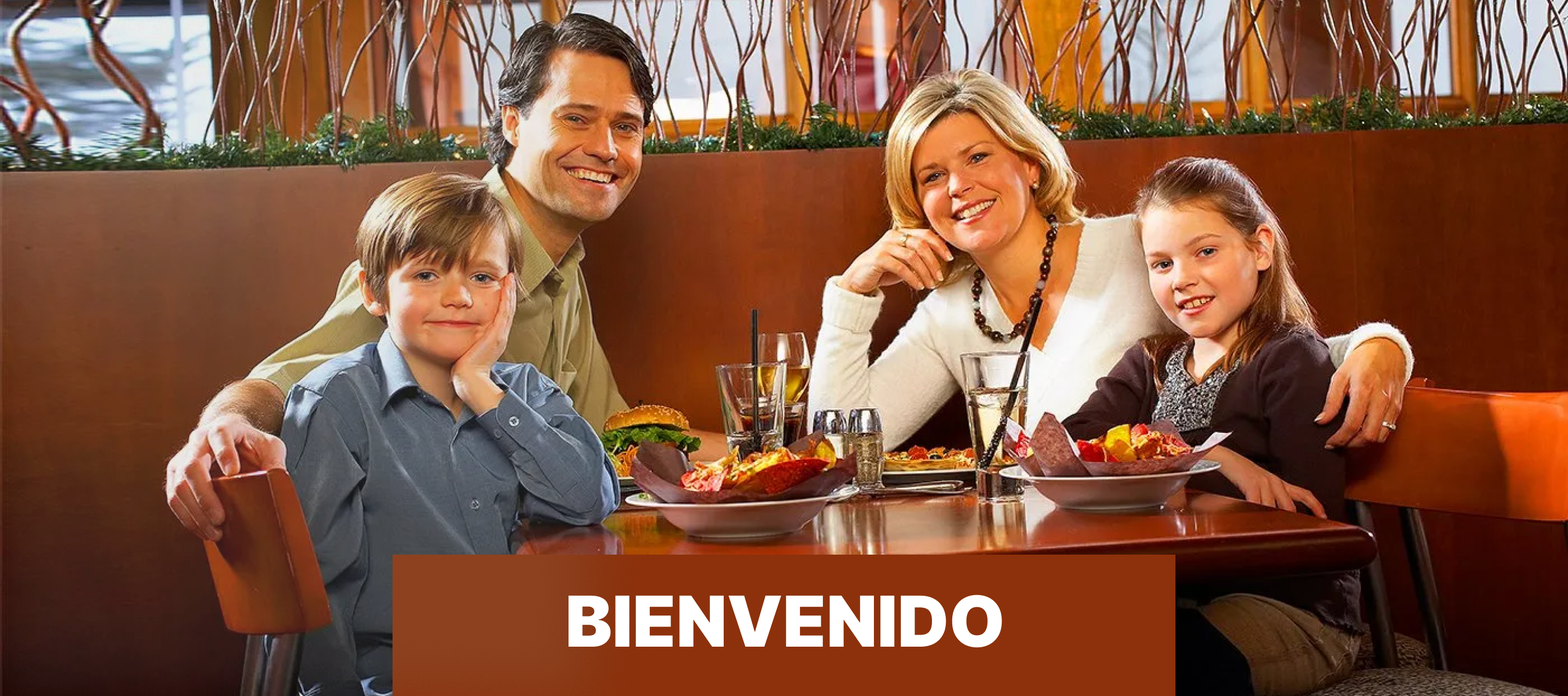
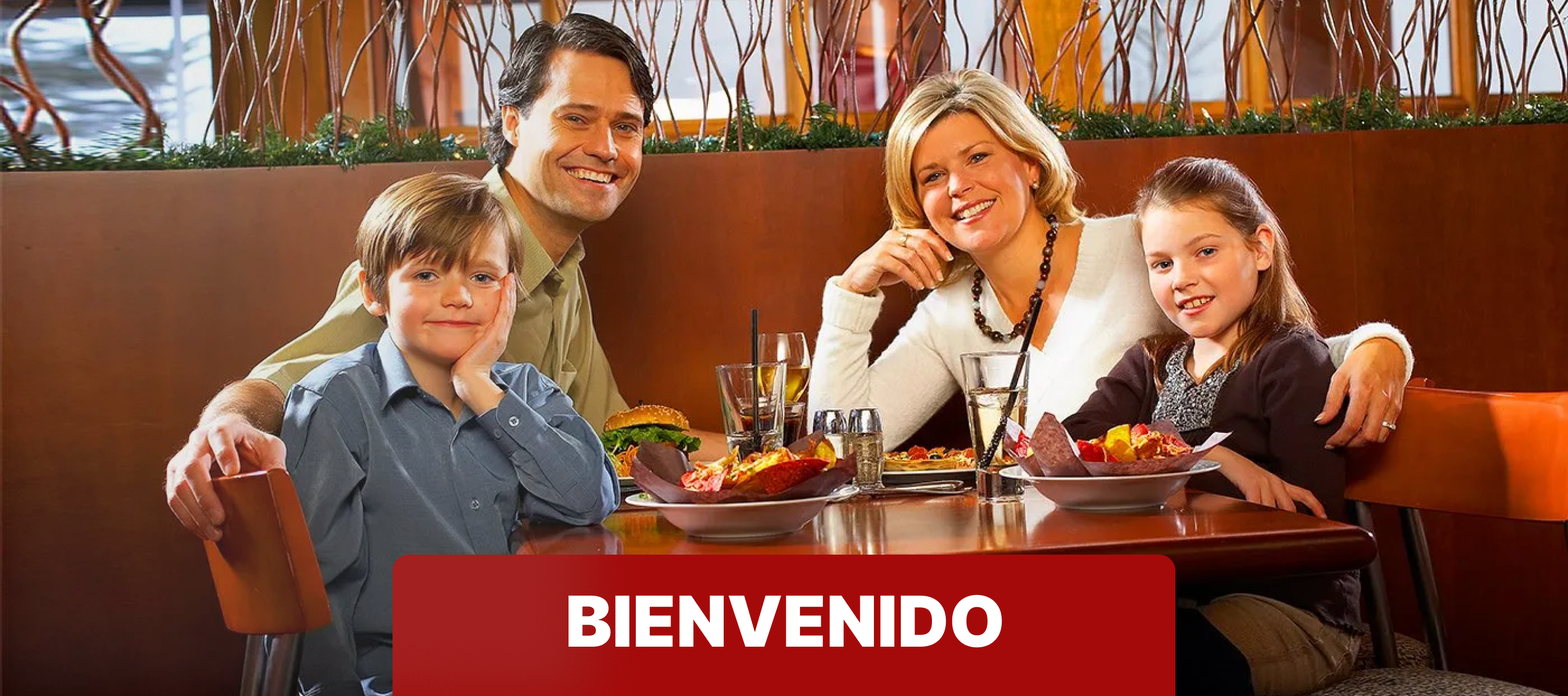
correcciones en la pagina del restaurante

Changed region(s): [[0.249, 0.7984, 0.7469, 1.0]]

diff --git a/cradso/html/restaurante.html b/cradso/html/restaurante.html
@@ -49,6 +49,100 @@
                     <img id="imagen-food" src="imagenes/food.png">
                 </div>
             </div>
+            <div id="seccion-chef">
+                <div id="contenedor-chef">
+                    <img id="imagen-chef" src="imagenes/chef.png">
+                </div>
+                <div id="texto-chef">
+                    <prev id="parrafo-chef">
+                        Donde cada plato cuenta una historia y cada sabor despierta una emoción 
+                    </prev>
+                </div>
+            </div>
+            <div id="seccion-menu">
+                <div id="barra-superior-menu">
+                    <div id="texto-menu"><h1 id="titulo-menu">MENÚ</h1></div>
+                    <div id="buscador">
+                        <form id="formulario" action="" method="GET">
+                            <input type="text" id="barra-busqueda" name="platillo" placeholder="encuentra tu platillo" required>
+                            <input type="submit" id="boton-busqueda" value="BUSCAR">
+                        </form>
+                    </div>
+                </div>
+                <div id="contenedor-menu">
+                    <div id="cuadricula-menu">
+                        <div class="filas-menu">
+                            <div class="carta-platillo">
+                                <div class="contenedor-imagen-platillo">
+                                    <img class="imagen-platillo">
+                                </div>
+                                <h2 class="titulo-platillo">sandwich con tocino</h1>
+                                <h3 class="precio">$ 12,000</h3>
+                            </div>
+                            <div class="carta-platillo">
+                                <div class="contenedor-imagen-platillo">
+                                    <img class="imagen-platillo">
+                                </div>
+                                <h2 class="titulo-platillo">sandwich con tocino</h1>
+                                <h3 class="precio">$ 12,000</h3>
+                            </div>
+                            <div class="carta-platillo">
+                                <div class="contenedor-imagen-platillo">
+                                    <img class="imagen-platillo">
+                                </div>
+                                <h2 class="titulo-platillo">sandwich con tocino</h1>
+                                <h3 class="precio">$ 12,000</h3>
+                            </div>
+                        </div>
+                        <div class="filas-menu">
+                            <div class="carta-platillo">
+                                <div class="contenedor-imagen-platillo">
+                                    <img class="imagen-platillo">
+                                </div>
+                                <h2 class="titulo-platillo">sandwich con tocino</h1>
+                                <h3 class="precio">$ 12,000</h3>
+                            </div>
+                            <div class="carta-platillo">
+                                <div class="contenedor-imagen-platillo">
+                                    <img class="imagen-platillo">
+                                </div>
+                                <h2 class="titulo-platillo">sandwich con tocino</h1>
+                                <h3 class="precio">$ 12,000</h3>
+                            </div>
+                            <div class="carta-platillo">
+                                <div class="contenedor-imagen-platillo">
+                                    <img class="imagen-platillo">
+                                </div>
+                                <h2 class="titulo-platillo">sandwich con tocino</h1>
+                                <h3 class="precio">$ 12,000</h3>
+                            </div>
+                        </div>
+                        <div class="filas-menu">
+                            <div class="carta-platillo">
+                                <div class="contenedor-imagen-platillo">
+                                    <img class="imagen-platillo">
+                                </div>
+                                <h2 class="titulo-platillo">sandwich con tocino</h1>
+                                <h3 class="precio">$ 12,000</h3>
+                            </div>
+                            <div class="carta-platillo">
+                                <div class="contenedor-imagen-platillo">
+                                    <img class="imagen-platillo">
+                                </div>
+                                <h2 class="titulo-platillo">sandwich con tocino</h1>
+                                <h3 class="precio">$ 12,000</h3>
+                            </div>
+                            <div class="carta-platillo">
+                                <div class="contenedor-imagen-platillo">
+                                    <img class="imagen-platillo">
+                                </div>
+                                <h2 class="titulo-platillo">sandwich con tocino</h1>
+                                <h3 class="precio">$ 12,000</h3>
+                            </div>
+                        </div>
+                    </div>
+                </div>
+            </div>
         </main>
         <footer>
             <div id="datos-footer">

diff --git a/cradso/html/styles/restaurante.css b/cradso/html/styles/restaurante.css
@@ -4,7 +4,7 @@ body{
 }
 
 header{
-    background-color: #c75c04;
+    background-color: #dfc21d;
     height: 110px;
     width: 100%;
     display: flex;
@@ -24,6 +24,8 @@ header{
 .logo{
     width: 100%;
     border-radius: 30%;
+    position: relative;
+    left: 20px;
 }
 
 menu-header{
@@ -43,12 +45,12 @@ menu-header{
 }
 
 li{
-    color: white;
+    color: rgb(0, 0, 0);
     padding: 10px;
 }
 
 .links-nav{
-    color: white;
+    color: rgb(0, 0, 0);
     text-decoration: none;
     padding: 10px;
     width: 3cm;
@@ -63,6 +65,8 @@ li{
     align-items: center;
     justify-content: space-around;
     margin: 11px;
+    position: relative;
+    right: 15px;
 }
 
 .login-reg{
@@ -71,13 +75,15 @@ li{
     align-items: center;
     justify-content: space-around;
     color: white;
-    background-color: rgb(0, 128, 0);
+    background-color: rgb(209, 78, 3);
     padding: 10px;
     border-radius: 5px;
     font-family:'Lucida Sans';
     font-size: 16px;
     font-weight: bold;
     width: 150px;
+    border: none;
+    height: 45px;
 }
 
 main{
@@ -101,7 +107,7 @@ main{
     position: relative;
     top: 100px;
     width: 100%;
-    background-color: #0d0b8c;
+    background-color: #a50a0a;
     display: grid;
     grid-template-columns: repeat(3, 1fr);
     height: 832px;
@@ -114,11 +120,14 @@ main{
     width: 100%;
     position: relative;
     top: -200px;
-    left: 50px;
+    left: 160px;
 }
 
 #parrafo-intro{
     font-size: 50px;
+    font-family: Arial, Helvetica, sans-serif;
+    position: relative;
+    top: -347px;
 }
 
 #linea-intro{
@@ -132,15 +141,97 @@ main{
 #contenedor-food{
     width: 100%;
     position: relative;
-    top: 100px;
+    top: 207px;
+    right: 328px;
 }
 
 #imagen-food{
-    width: 65%;
+    width: 130%;
+}
+
+#seccion-chef{
+    display: grid;
+    grid-template-columns: repeat(2, 1fr);
+    background-color: #7C1517;
+    height: 650px;
+}
+
+#contenedor-chef{
+    width: 50%;
+    position: relative;
+    top: 330px;
+    left: 200px;
+}
+
+#imagen-chef{
+    width: 100%;
+}
+
+#texto-chef{
+    display: grid;
+    grid-template-columns: 1fr;
+    position: relative;
+    top: 300px;
+    right: 30px;
+}
+
+#parrafo-chef{
+    font-size: 50px;
+    font-family: Arial, Helvetica, sans-serif;
+    color: white;
+    text-align: center;
+}
+
+#seccion-menu{
+    display: grid;
+    grid-template-rows: repeat(2, 1fr);
+    background-color: #3F3B36;
+    color: white;
+    font-family: Arial, Helvetica, sans-serif;
+}
+
+#barra-superior-menu{
+    display: grid;
+    grid-template-columns: repeat(2, 1fr);
+}
+
+#texto-menu{
+    font-family: Arial, Helvetica, sans-serif;
+    color: white;
+}
+
+#formulario{
+    width: 100%;
+}
+
+#barra-busqueda[type="text"]{
+    width: 50%;
+    height: 43px;
+    font-size: 120%;
+    color: #616161d7;
+    font-family: Arial, Helvetica, sans-serif;
+    transform: scale(1.05);
+    transition: transform 0.2s ease-in-out;
+}
+
+#boton-busqueda[type="submit"]{
+    width: 10%;
+    height: 43px;
+    color: rgb(0, 0, 0);
+    font-family: Arial, Helvetica, sans-serif;
+    font-size: 120%;
+    font-weight: bold;
+    transform: scale(1.05);
+    transition: transform 0.2s ease-in-out;
+    
+}
+
+#contenedor-menu{
+    background-color: #33302c;
 }
 
 footer{
-    background-color: #c75c04;
+    background-color: #dfc21d;
     height: 340px;
     width: 100%;
     display: flex;
@@ -149,7 +240,7 @@ footer{
 }
 
 #datos-footer{
-    color: white;
+    color: rgb(0, 0, 0);
     display: flex;
     flex-direction: row;
 }
@@ -174,7 +265,7 @@ footer{
 }
 
 #linea{
-    background-color: #a14f2c;
+    background-color: #9fa12c;
     height: 100%;
     width: 0.05%;
     position: relative;
@@ -192,7 +283,7 @@ footer{
     position: relative;
     right: -90%;
     font-family: Arial;
-    color: white;
+    color: rgb(0, 0, 0);
 }
 
 #logo{
